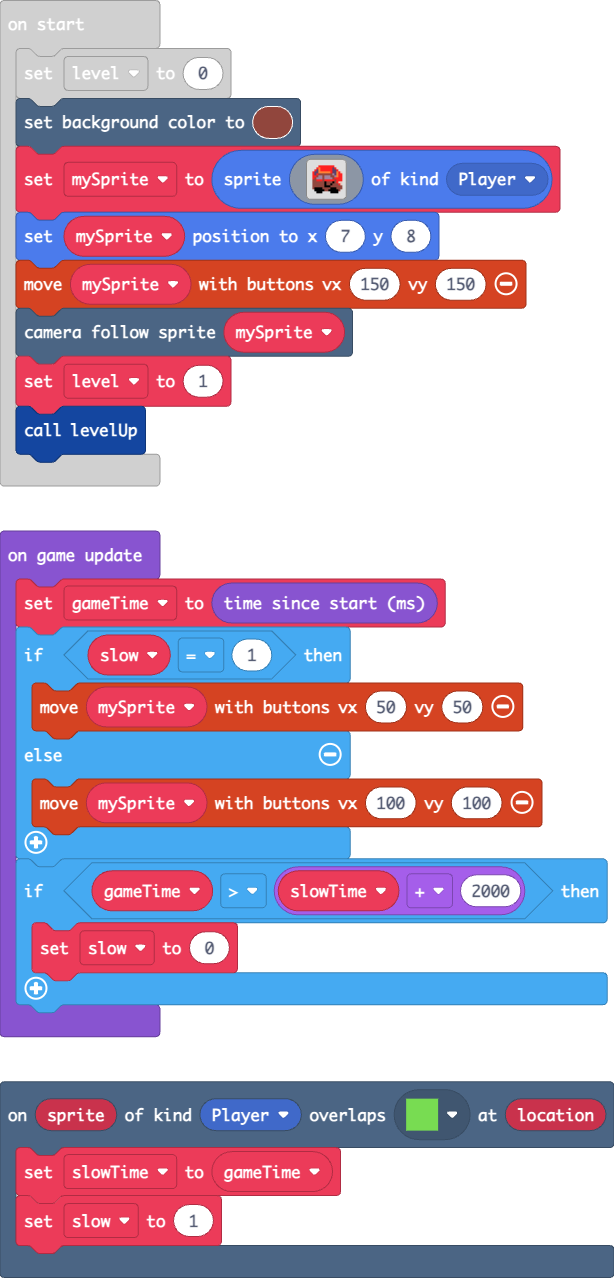
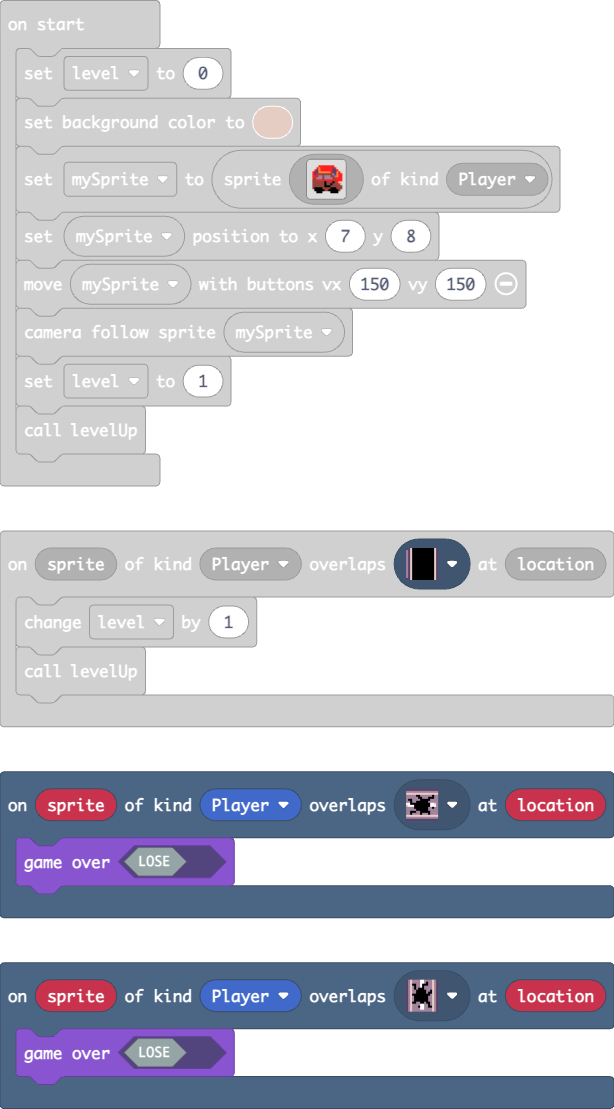
Update pxt.json, main.blocks, main.ts, tilemap.g.jres, tilemap.g.ts

diff --git a/tilemap.g.ts b/tilemap.g.ts
@@ -3,9 +3,25 @@ namespace myTiles {
     //% fixedInstance jres blockIdentity=images._tile
     export const transparency16 = image.ofBuffer(hex``);
     //% fixedInstance jres blockIdentity=images._tile
+    export const tile2 = image.ofBuffer(hex``);
+    //% fixedInstance jres blockIdentity=images._tile
+    export const tile4 = image.ofBuffer(hex``);
+    //% fixedInstance jres blockIdentity=images._tile
     export const tile1 = image.ofBuffer(hex``);
     //% fixedInstance jres blockIdentity=images._tile
-    export const tile2 = image.ofBuffer(hex``);
+    export const tile5 = image.ofBuffer(hex``);
+    //% fixedInstance jres blockIdentity=images._tile
+    export const tile6 = image.ofBuffer(hex``);
+    //% fixedInstance jres blockIdentity=images._tile
+    export const tile8 = image.ofBuffer(hex``);
+    //% fixedInstance jres blockIdentity=images._tile
+    export const tile7 = image.ofBuffer(hex``);
+    //% fixedInstance jres blockIdentity=images._tile
+    export const tile3 = image.ofBuffer(hex``);
+    //% fixedInstance jres blockIdentity=images._tile
+    export const tile9 = image.ofBuffer(hex``);
+    //% fixedInstance jres blockIdentity=images._tile
+    export const tile10 = image.ofBuffer(hex``);
 
     helpers._registerFactory("tilemap", function(name: string) {
         switch(helpers.stringTrim(name)) {
@@ -48,7 +64,7 @@ namespace myTiles {
 . . . . . . . . . . . . . . . . 
 `, [myTiles.transparency16], TileScale.Sixteen);
             case "level1":
[2 lines of base64/hex data omitted]
 .........22222222222222222222222
 2.222222.22...................22
 2.222222.22...................22
@@ -81,7 +97,7 @@ namespace myTiles {
 22222222..............2.......22
 222222222222222222222.222.22..22
 222222222222222222222.....22....
-`, [myTiles.transparency16,sprites.vehicle.roadTurn1,sprites.vehicle.roadTurn2,sprites.vehicle.roadTurn4,sprites.vehicle.roadTurn3,sprites.vehicle.roadVertical,sprites.vehicle.roadHorizontal,sprites.vehicle.roadIntersection4,sprites.vehicle.roadIntersection2,sprites.vehicle.roadIntersection3,sprites.vehicle.roadIntersection1,sprites.dungeon.hazardWater,sprites.skillmap.islandTile4,sprites.builtin.brick,sprites.castle.rock2,sprites.dungeon.collectibleInsignia,sprites.castle.tileGrass1,sprites.castle.tileGrass3,sprites.castle.tileGrass2,myTiles.tile1,myTiles.tile2,sprites.builtin.forestTiles0], TileScale.Sixteen);
+`, [myTiles.transparency16,sprites.vehicle.roadTurn1,sprites.vehicle.roadTurn2,sprites.vehicle.roadTurn4,sprites.vehicle.roadTurn3,sprites.vehicle.roadVertical,sprites.vehicle.roadHorizontal,sprites.vehicle.roadIntersection4,sprites.vehicle.roadIntersection2,sprites.vehicle.roadIntersection3,sprites.vehicle.roadIntersection1,sprites.dungeon.hazardWater,sprites.skillmap.islandTile4,sprites.builtin.brick,sprites.castle.rock2,sprites.castle.tileGrass1,sprites.castle.tileGrass3,sprites.castle.tileGrass2,myTiles.tile1,sprites.builtin.forestTiles0,myTiles.tile3,myTiles.tile4,myTiles.tile5,myTiles.tile6,myTiles.tile7,myTiles.tile8,myTiles.tile9,myTiles.tile10], TileScale.Sixteen);
         }
         return null;
     })
@@ -89,10 +105,26 @@ namespace myTiles {
     helpers._registerFactory("tile", function(name: string) {
         switch(helpers.stringTrim(name)) {
             case "transparency16":return transparency16;
-            case "myTile":
-            case "tile1":return tile1;
             case "myTile0":
             case "tile2":return tile2;
+            case "myTile2":
+            case "tile4":return tile4;
+            case "myTile":
+            case "tile1":return tile1;
+            case "myTile3":
+            case "tile5":return tile5;
+            case "myTile4":
+            case "tile6":return tile6;
+            case "myTile6":
+            case "tile8":return tile8;
+            case "myTile5":
+            case "tile7":return tile7;
+            case "myTile1":
+            case "tile3":return tile3;
+            case "myTile7":
+            case "tile9":return tile9;
+            case "myTile8":
+            case "tile10":return tile10;
         }
         return null;
     })

diff --git a/main.ts b/main.ts
@@ -1,3 +1,10 @@
+scene.onOverlapTile(SpriteKind.Player, assets.tile`myTile1`, function (sprite, location) {
+    game.gameOver(false)
+})
+scene.onOverlapTile(SpriteKind.Player, assets.tile`myTile6`, function (sprite, location) {
+    level += 1
+    levelUp()
+})
 function levelUp () {
     if (level == 1) {
         tiles.setCurrentTilemap(tilemap`level1`)
@@ -9,20 +16,19 @@ function levelUp () {
         tiles.setCurrentTilemap(tilemap`level3`)
     }
 }
+scene.onOverlapTile(SpriteKind.Player, assets.tile`myTile2`, function (sprite, location) {
+    game.gameOver(false)
+})
 scene.onOverlapTile(SpriteKind.Player, sprites.skillmap.islandTile4, function (sprite, location) {
     slowTime = gameTime
     slow = 1
-})
-scene.onOverlapTile(SpriteKind.Player, sprites.dungeon.collectibleInsignia, function (sprite, location) {
-    level += 1
-    levelUp()
 })
 let slow = 0
 let gameTime = 0
 let slowTime = 0
 let level = 0
 level = 0
-scene.setBackgroundColor(14)
+scene.setBackgroundColor(13)
 let mySprite = sprites.create(img`
     . . . . . . . . . . . . . . . . 
     . . . . 2 2 2 2 2 2 2 2 . . . . 
